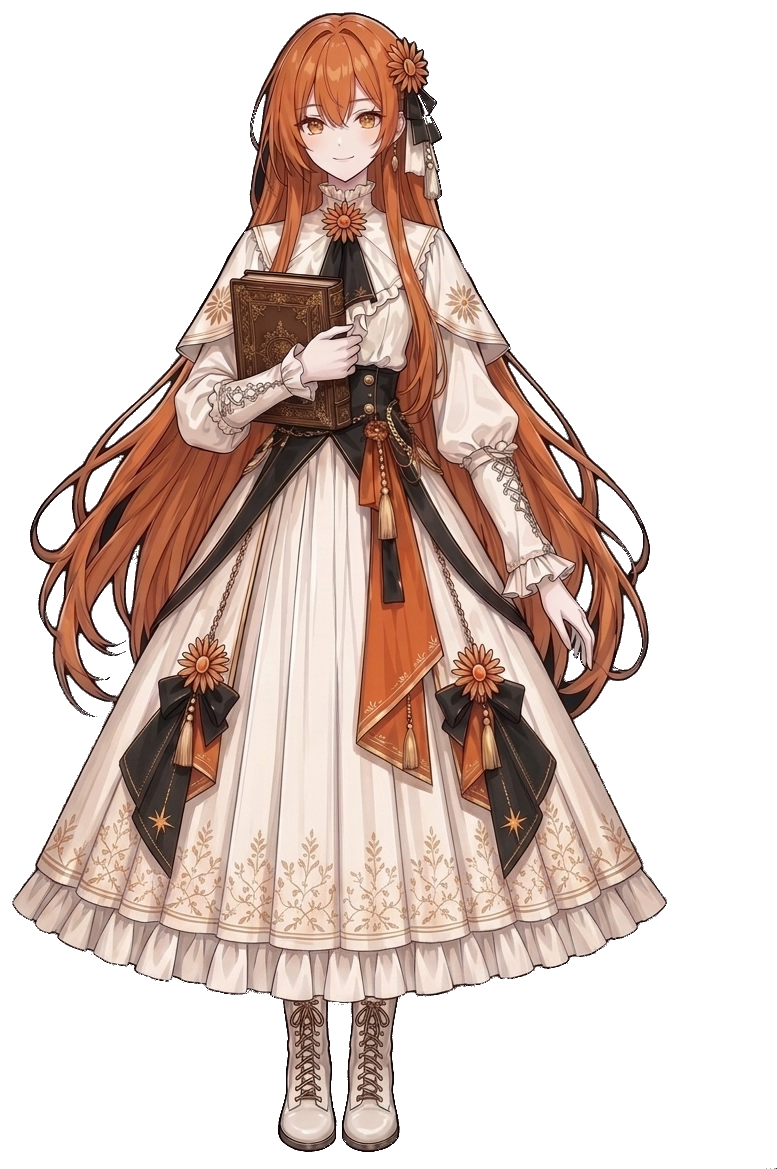
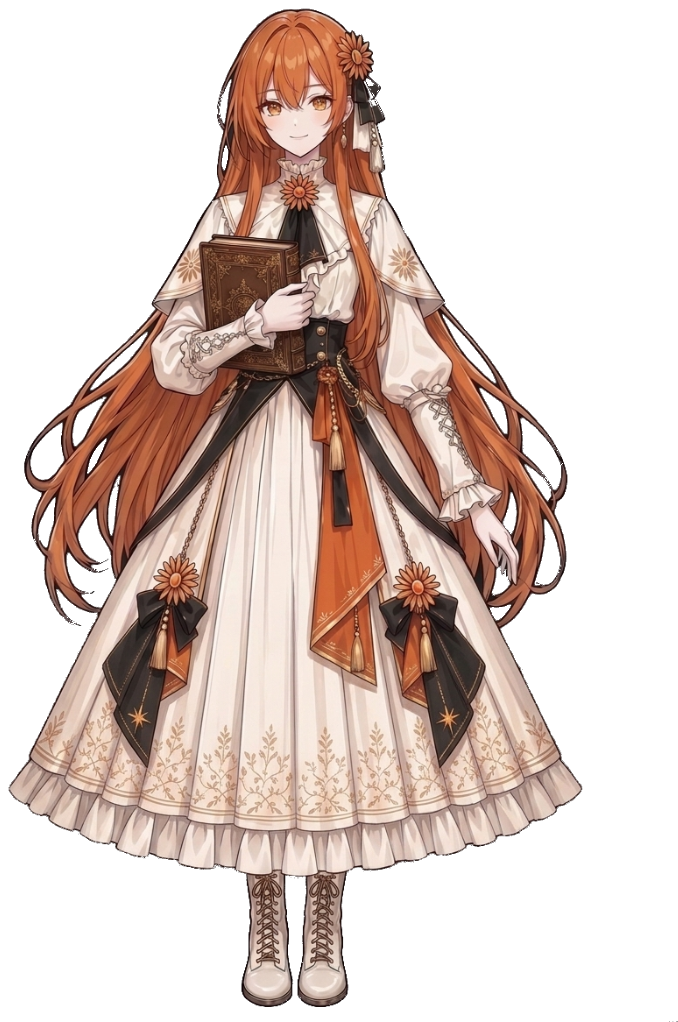
chore(v0.7): update pet-claude.png with cleaned transparent sprite

diff --git a/sidecars/pet_panel/index.html b/sidecars/pet_panel/index.html
@@ -5,7 +5,7 @@
   <meta name="viewport" content="width=device-width, initial-scale=1">
   <title>Gemini Pet</title>
   <script src="/preload.js"></script>
-  <link rel="stylesheet" href="/styles.css?v=17">
+  <link rel="stylesheet" href="/styles.css?v=18">
 </head>
 <body>
   <div class="container">
@@ -151,10 +151,10 @@
         <div class="speech-line" id="speech-line">Click me to bounce, nya~ ✨</div>
       </div>
       <div class="pet-avatar" id="pet-avatar">
-        <img src="/pet.png?v=17" id="pet-img" alt="AI Pet" class="pet-img" draggable="false" />
+        <img src="/pet.png?v=18" id="pet-img" alt="AI Pet" class="pet-img" draggable="false" />
       </div>
     </div>
   </div>
-  <script src="/app.js?v=17"></script>
+  <script src="/app.js?v=18"></script>
 </body>
 </html>

diff --git a/sidecars/pet_panel/app.js b/sidecars/pet_panel/app.js
@@ -109,7 +109,7 @@
       const prevKey = currentPetKey;
       currentPetKey = nextKey;
       if (petImg) {
-        petImg.src = nextKey === 'claude' ? '/pet-claude.png?v=17' : '/pet.png?v=17';
+        petImg.src = nextKey === 'claude' ? '/pet-claude.png?v=18' : '/pet.png?v=18';
       }
       // Auto-sync context window cap when switching model families
       ctxCapIdx = nextKey === 'claude' ? 0 : 1;
